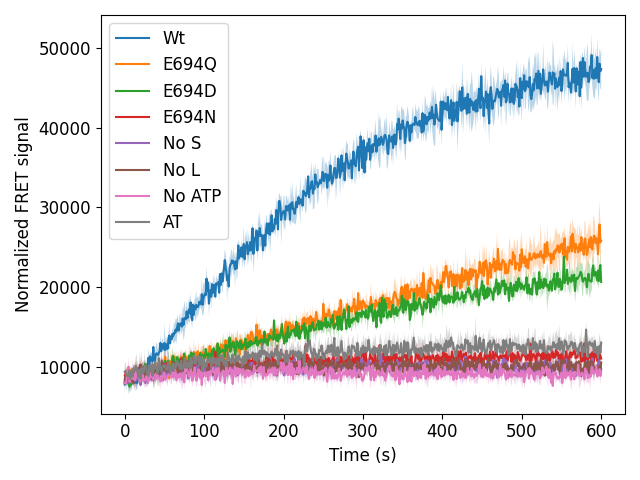
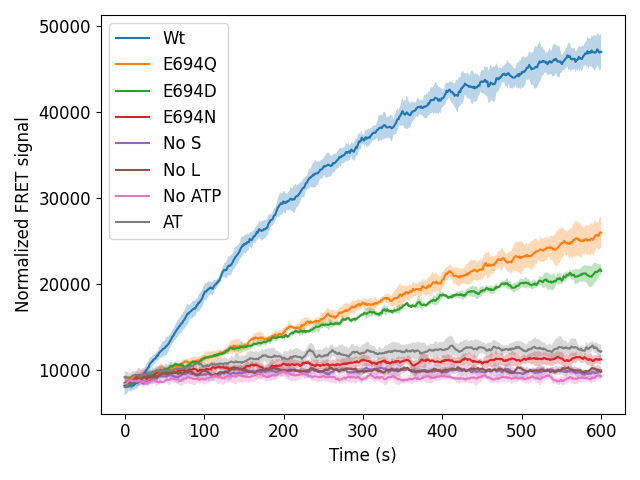
Included the option to take the rolling average (resolve #9)

diff --git a/Scripts/Process_data.py b/Scripts/Process_data.py
@@ -1,13 +1,21 @@
 import numpy as np
 
-def process_data(data):
+def moving_average(x, N):
+    n = int(N/2)
+    y = x[0]
+    a=np.empty(n); a.fill(y)
+    cumsum = np.cumsum(np.insert(x, 0, a)) 
+    return (cumsum[N:] - cumsum[:-N]) / float(N)
+
+def process_data(input, N=10):
     dict = {}
-    for column in data[next(iter(data))]:
+    for column in input[next(iter(input))]:
         dict[column] = {}
          # loops through column names of the first entry of the dict.
         list = [] # contains raw data per entry
-        for key in data.keys():
-            list.append(data[key][column])
+        for key in input.keys():
+            data = input[key][column]
+            list.append(moving_average(data, N))
         # calculate mean and std per data category
         mean_trace = np.mean(list, axis=0)
         std = np.std(list, axis=0)

diff --git a/Scripts/visualise.py b/Scripts/visualise.py
@@ -4,7 +4,7 @@ import numpy as np
 
 def create_fig(data, params=[0.3,12]):
     alpha, size = params
-    time = np.linspace(0, 600, 601) # min
+    time = np.linspace(0, 600, 596) # min
 
     for key in data.keys():
 
